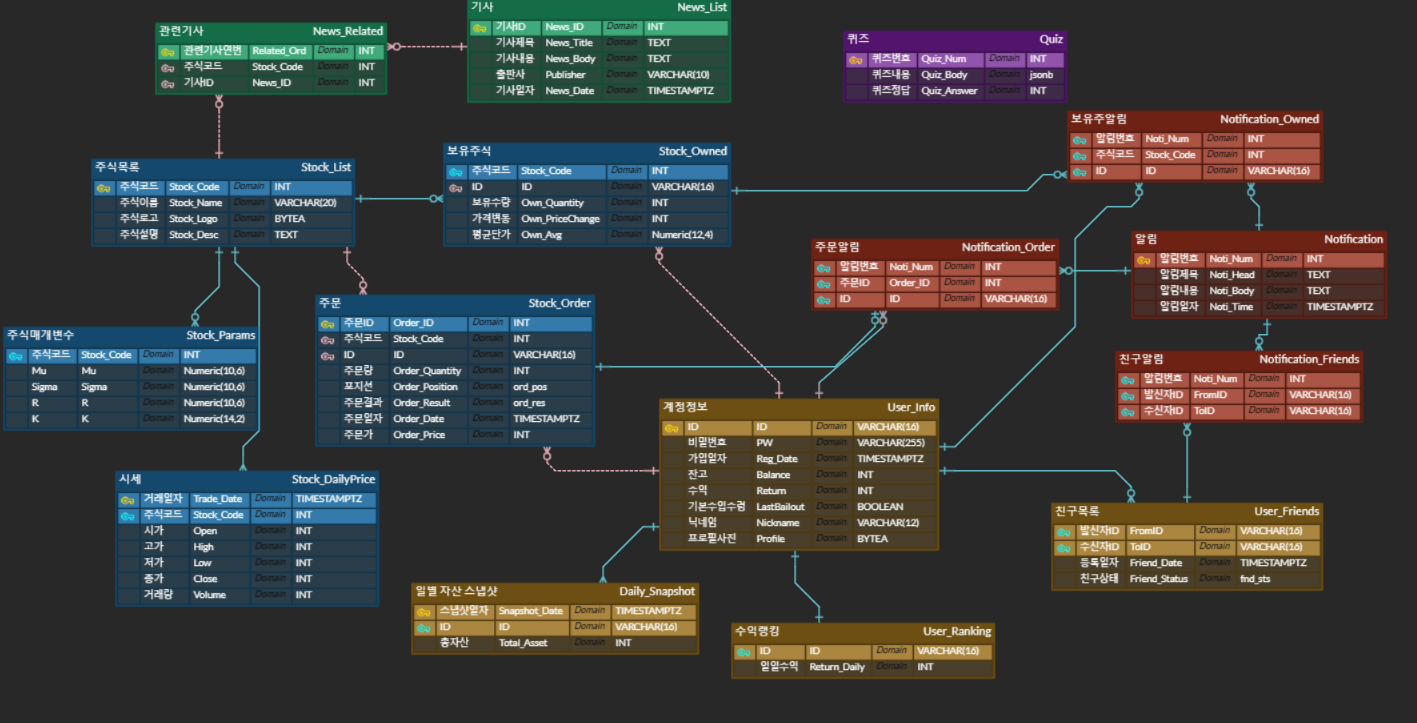
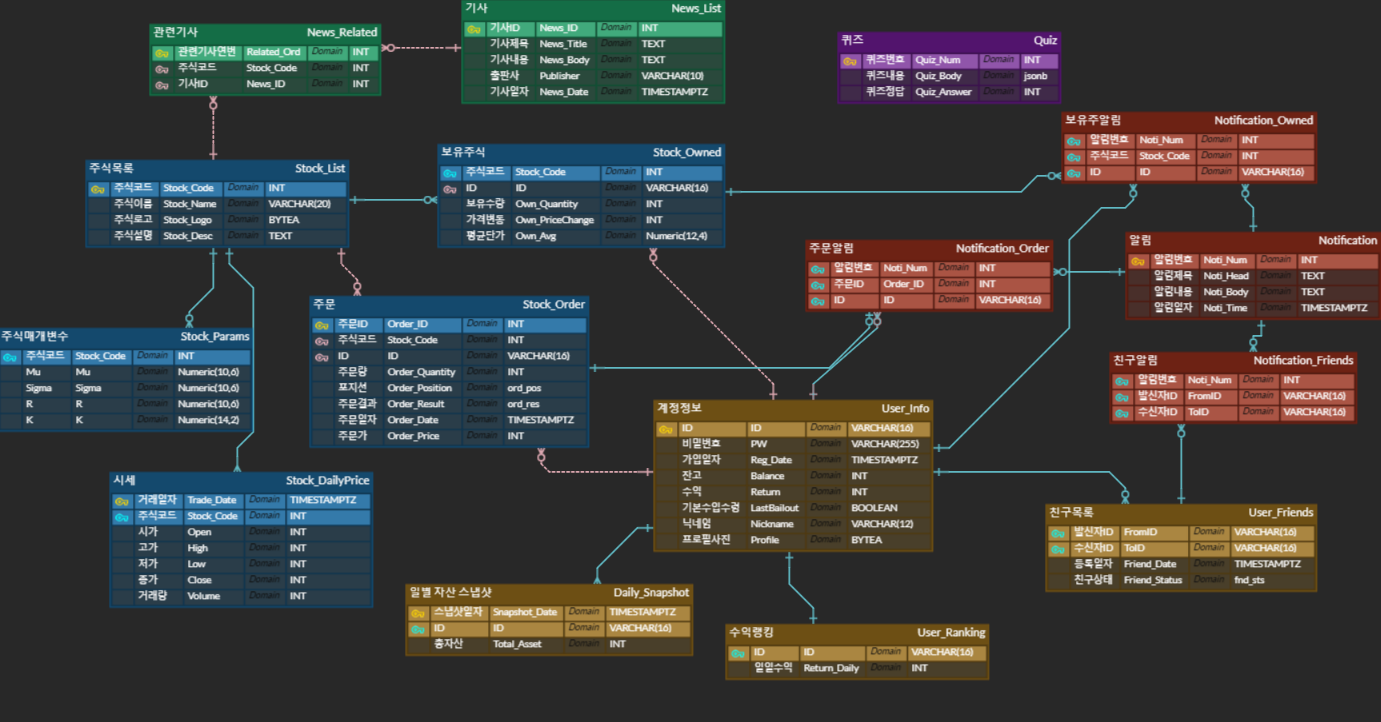
erd 수정

diff --git a/README.md b/README.md
@@ -124,22 +124,6 @@
 | account.ListNotificationsView | /notifications | 알림 목록 보기 | GET | |
 | account.DeleteNotificationView | /notifications/delete | 알림 목록 보기 | POST | |
 
-| stock_PriceUpToDate | | 가상주식 가격을 연동 (50ms 단위) | | | 
-| stock_ShowList | | 가상주식 목록 - 기업명, 기업 로고, 현재 주가, 주가 변동분 표시 (보유 주식과 검색 결과로 나온 주식 모두 적용) | | |
-| stock_ShowEntry | | 단일 주식의 그래프, 현재 주가 표시 | | | 
-| order_Create | | 가상주식 주문 (매수 / 매도, 주문량 설정) | | |
-| order_Edit | | 가상주식 주문 수정 (주문량 변경) | | |
-| order_Destroy | | 가상주식 주문 취소 | | |
-| order_Sign | | 주문 가격 도달시 가상주식 주문 체결 | | |
-| ranking_Update | | 일간 주식 수익 랭킹 업데이트 | | |
-| ranking_Show | | 일간 주식 수익 랭킹 표시 | | |
-| notify_Stock | | 마지막 공지 시점으로부터 단일 주식의 주가 변화를 알림으로 공지함 | | |
-| notify_Order | | 주문의 체결 성공 / 실패 / 취소를 알림으로 공지함 | | |
-| notify_Friends | | 친구 요청 발신 / 수신, 친구 삭제를 알림으로 공지함 | | |
-| quiz_Show | | 오늘의 퀴즈 보여주기 | | |
-| quiz_Submit | | 퀴즈 정답 제출 | | |
-| quiz_Check | | 퀴즈 정답 채점 | | |
-
 ---
 
 ## 배포 결과물